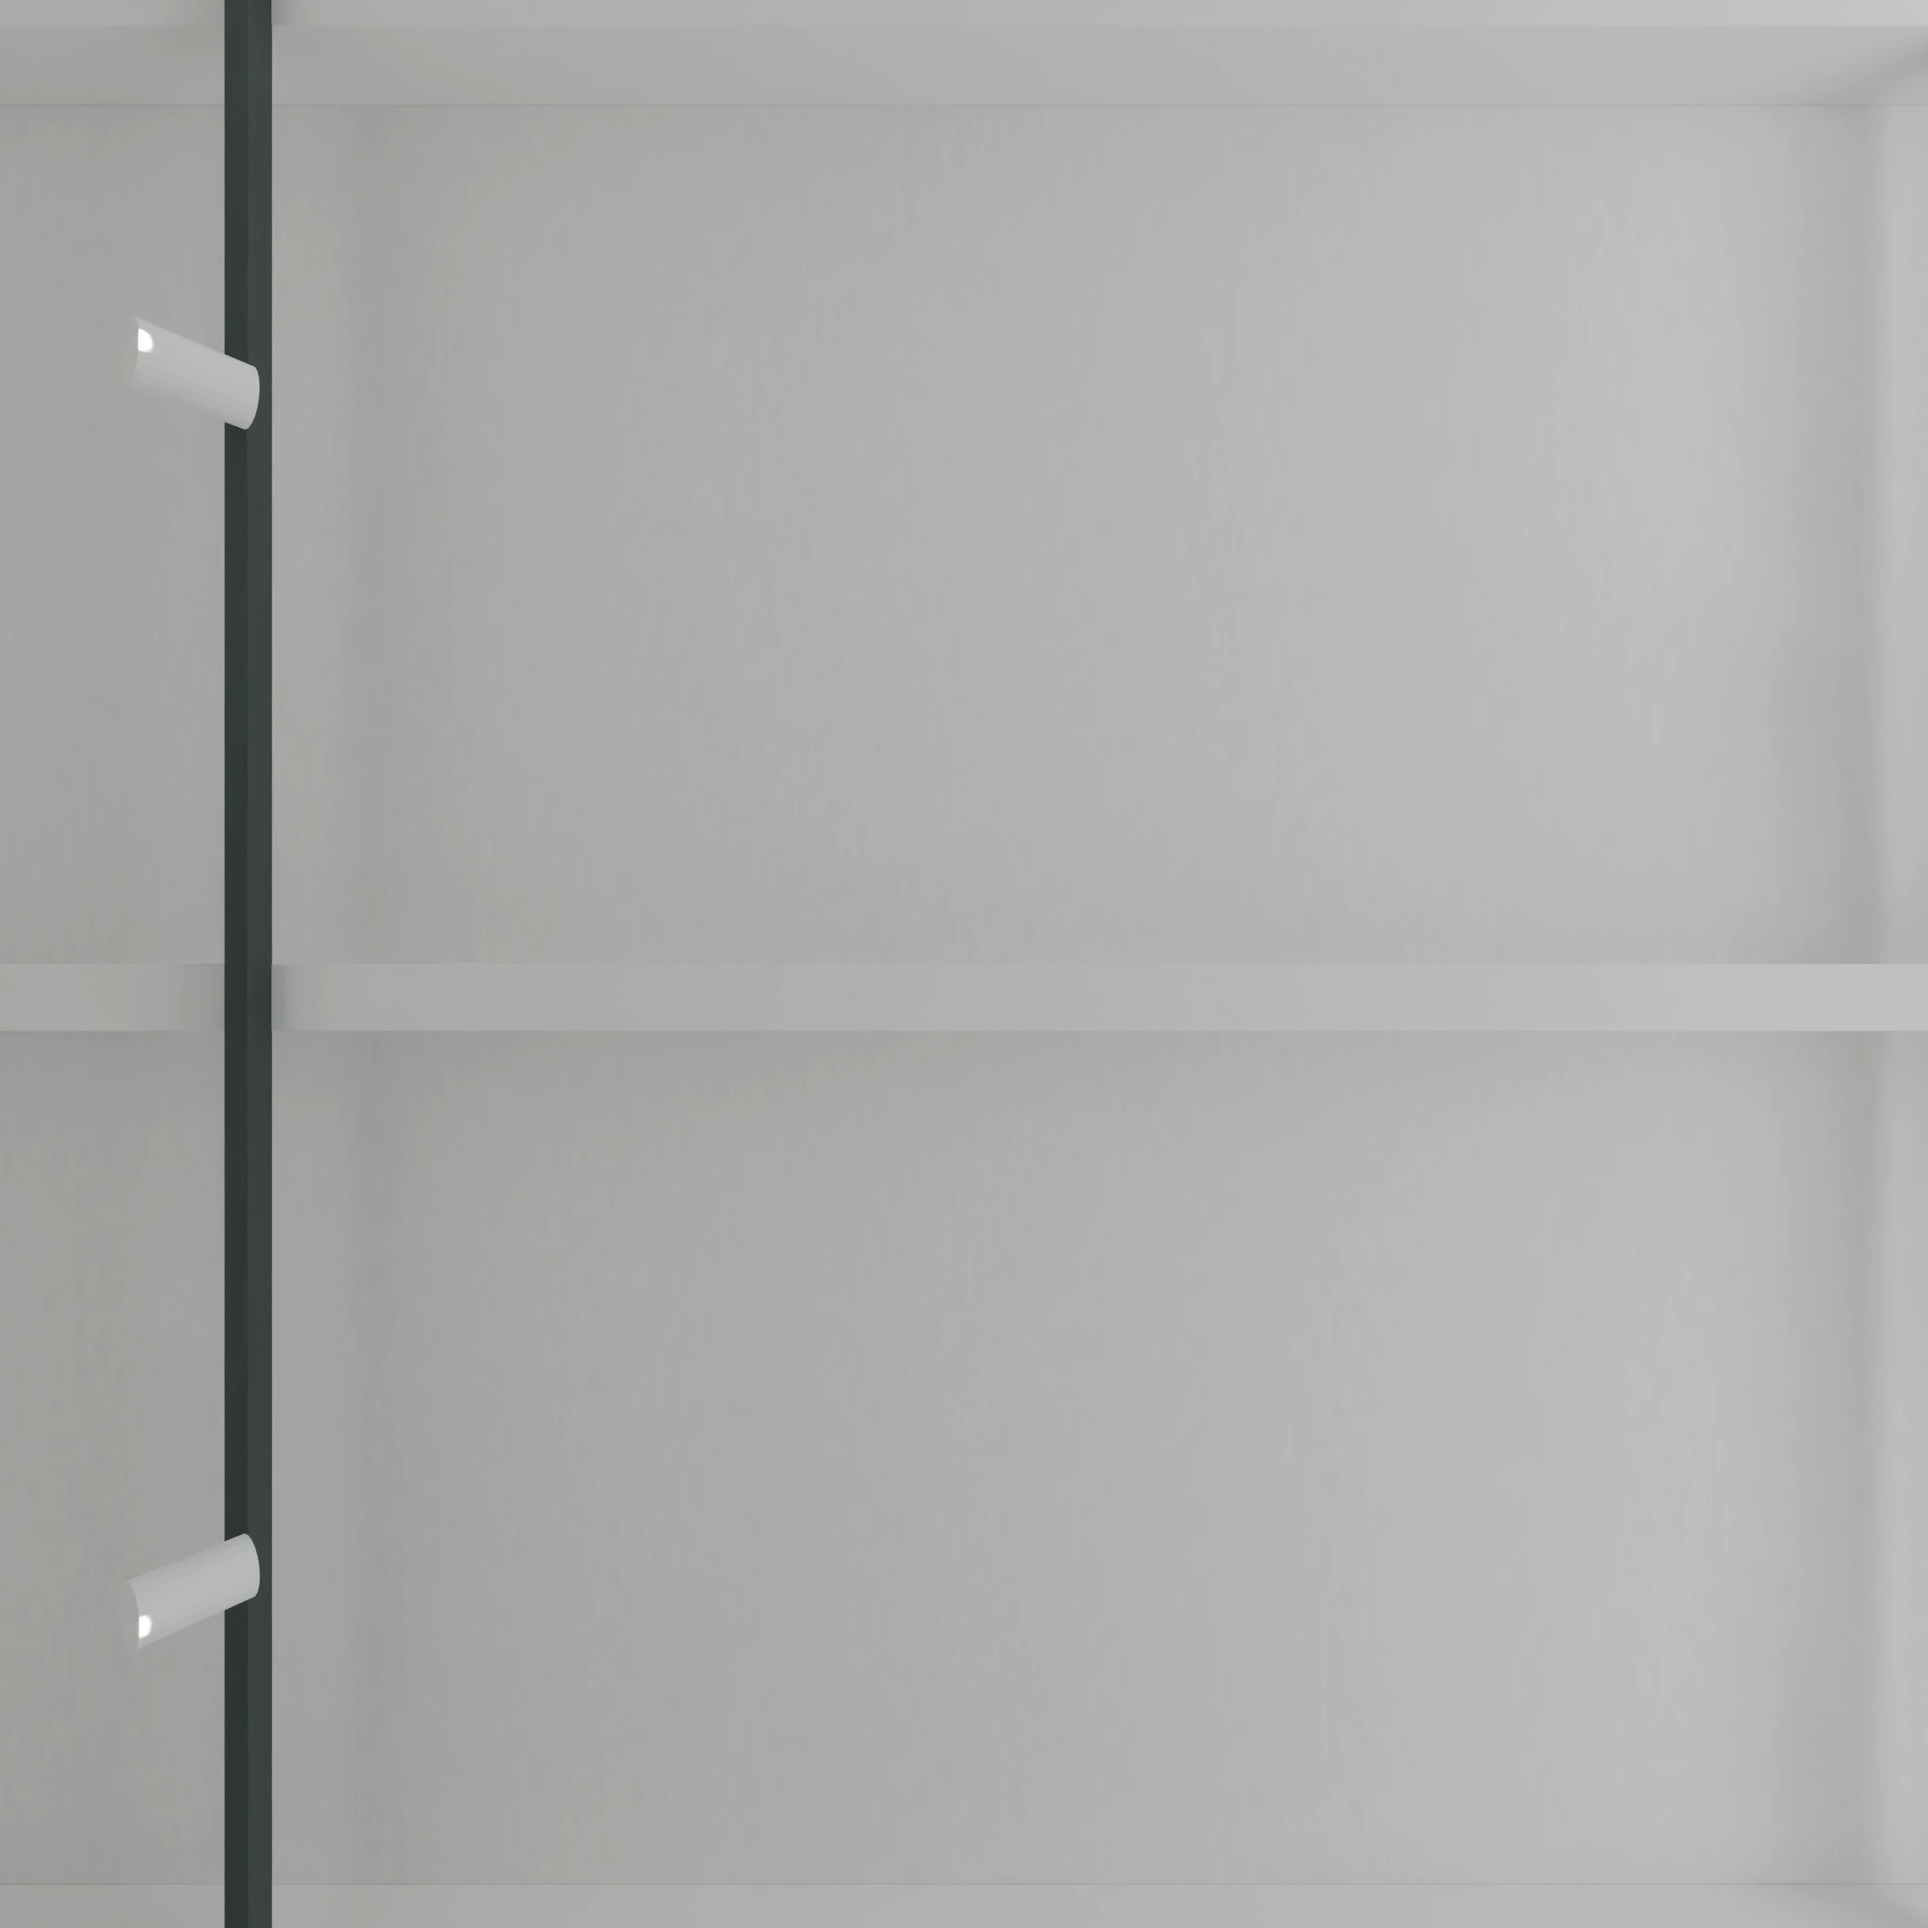
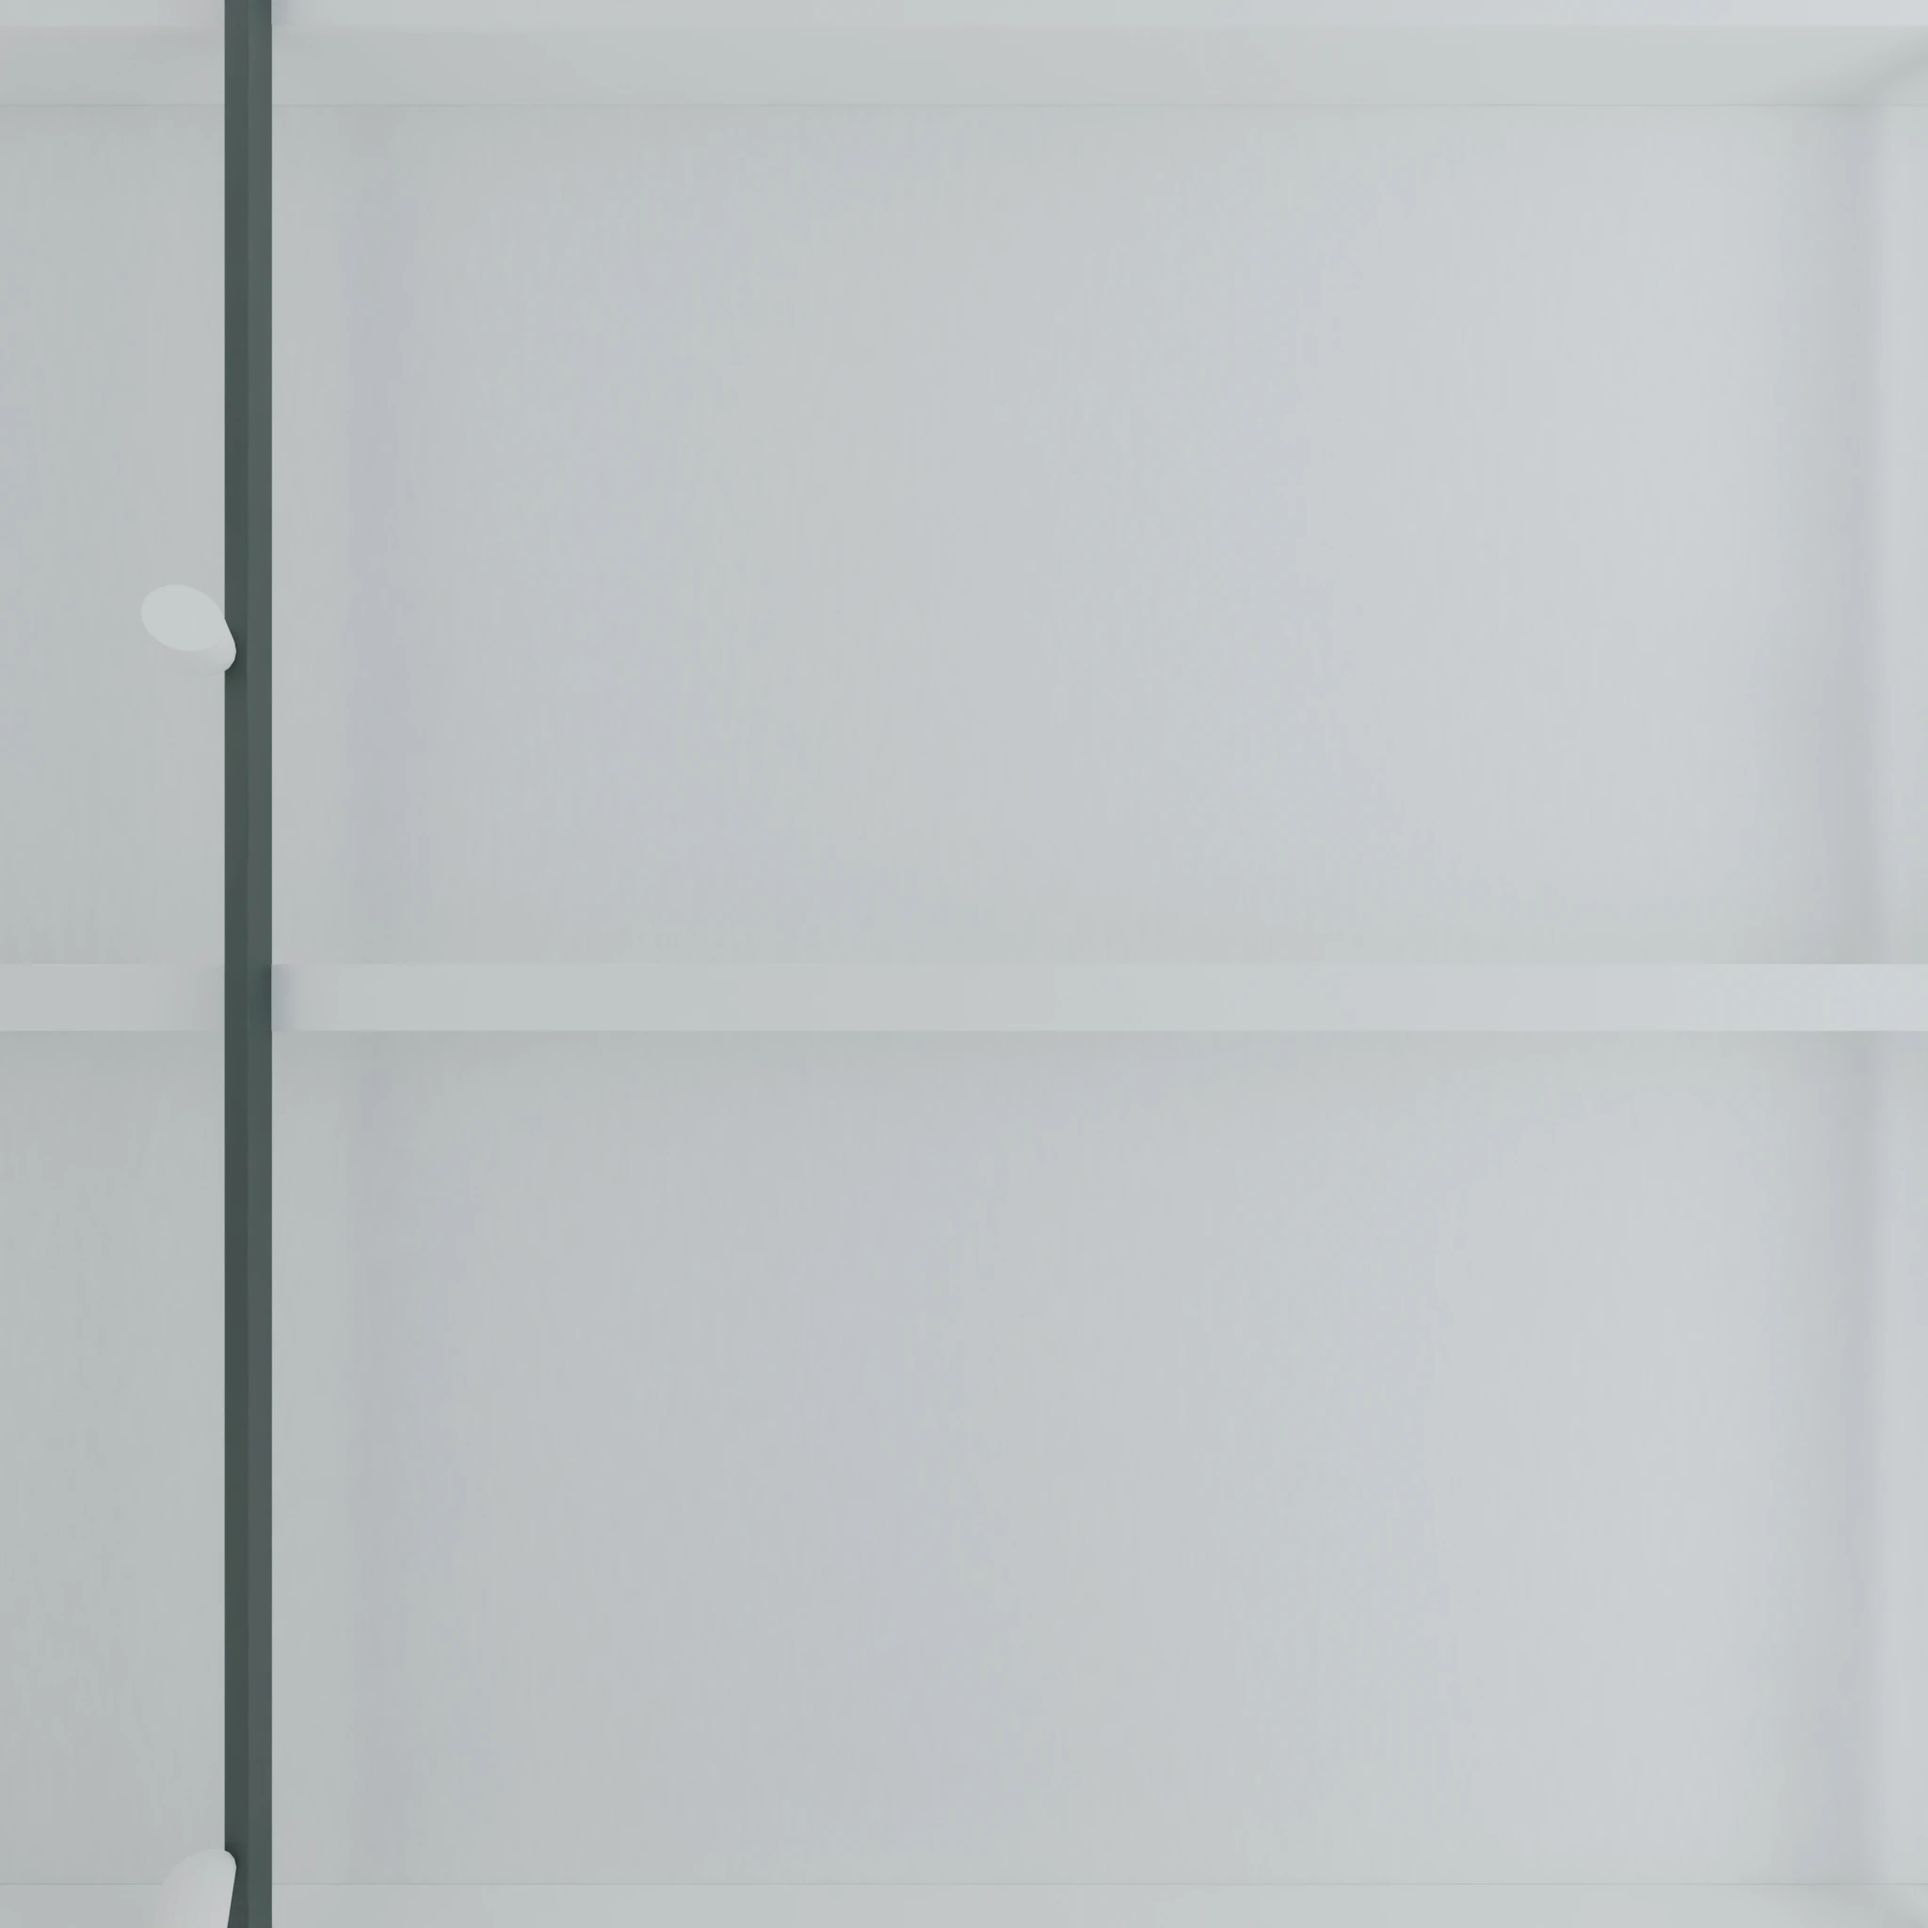
Revert "Apply reference-look Blender panoramas"
These faces came from the first reference-look render, which turned
out darker than the current site. They will be replaced by a new
render of the brightness-corrected .blend instead.

Claude-Session: https://claude.ai/code/session_01X5ZXJ1JqgtjCrEziwr5iKK

diff --git a/src/viewer.js b/src/viewer.js
@@ -21,7 +21,7 @@ export async function createViewer(container,{onArtwork,onStation,onBusy,onError
  let walking=false,room=null,roomPending=null,colliders=[],goal=null;
  const held=new Set(),turn=new Set(),stick=new T.Vector2();
  const cache=new Map();const loader=new T.CubeTextureLoader();
- async function load(index){if(cache.has(index))return cache.get(index);const pending=loader.loadAsync(['px','nx','py','ny','pz','nz'].map(f=>asset(`panoramas/${stations[index].id}/${f}.webp?v=reference-look-20261120`))).then(tex=>{tex.colorSpace=T.SRGBColorSpace;if(disposed)tex.dispose();return tex}).catch(e=>{cache.delete(index);throw e});cache.set(index,pending);return pending;}
+ async function load(index){if(cache.has(index))return cache.get(index);const pending=loader.loadAsync(['px','nx','py','ny','pz','nz'].map(f=>asset(`panoramas/${stations[index].id}/${f}.webp?v=clear-daylight-20260909`))).then(tex=>{tex.colorSpace=T.SRGBColorSpace;if(disposed)tex.dispose();return tex}).catch(e=>{cache.delete(index);throw e});cache.set(index,pending);return pending;}
  function trimCache(){for(const [index,promise]of cache){if(index!==current&&index!==Math.min(current+1,LAST)){promise.then(t=>t.dispose());cache.delete(index);}}}
  const textureLoader=new T.TextureLoader();
  const introTex=await textureLoader.loadAsync(asset('assets/wall-introduction.svg'));introTex.colorSpace=T.SRGBColorSpace;
